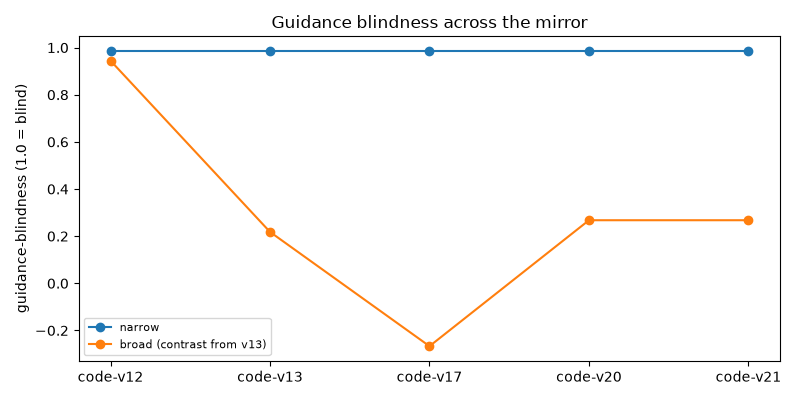
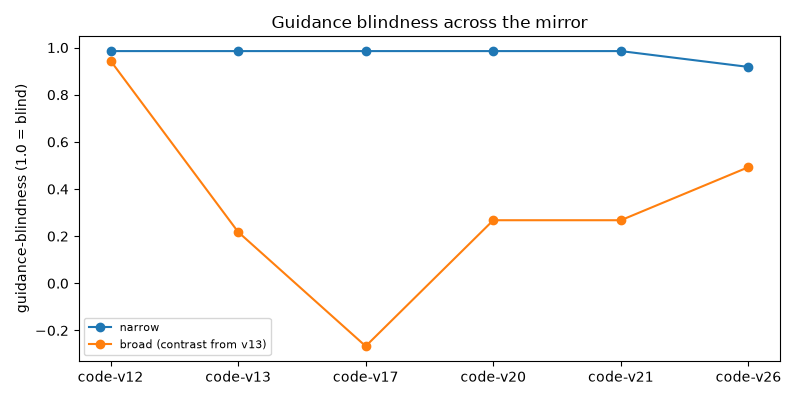
Adopt hidden-64 bench policies (#28)
Width ladder (same seeds/data/contrast/budgets): 16 -> 3/8
tried 4019 blind 0.24; 32 -> 3/8 tried 4043 blind 0.41; 64
-> 4/8 tried 3769 blind 0.53. Ladder repeated bitwise
identical. Adopt 64 for bench narrow/broad (fair pair);
HIDDEN default stays 16, all mechanism pins unchanged.
Measured adopted: twin/plain broad 4/8 (u_00,u_04,u_05,u_06;
p_01,p_04,p_05,p_06), narrow 2/8. Gains extended to
code-v26. test-fast 115/115 OK.

diff --git a/tests/test_rsi_ood.py b/tests/test_rsi_ood.py
@@ -8,6 +8,7 @@ import unittest
 from typing import Any
 
 from rsi_programmer.ood import CAVEAT, assert_frozen
+from rsi_programmer.ood import _probe_feats, _probe_layer
 from rsi_programmer.ood import _refine_rows, benchmark
 from rsi_programmer.ood import contrast_tensors
 from rsi_programmer.ood import guidance_similarity
@@ -233,6 +234,18 @@ class FrozenBenchmarkTests(unittest.TestCase):
         self.assertEqual(rep["caveat"], CAVEAT)
         print("refined: narrow=%.3f broad=%.3f"
               % (rep["narrow_solve"], rep["broad_solve"]))
+
+    def test_wider_net_trains_and_scores(self) -> None:
+        """Hidden-64 policy fits, scores finite, deterministic."""
+        first = SearchPolicy(seed=0, hidden=64)
+        first.fit(self.groups[:1], 2)
+        second = SearchPolicy(seed=0, hidden=64)
+        second.fit(self.groups[:1], 2)
+        feats = _probe_feats(self.twin[0], *_probe_layer())
+        both = [pol.scores(feats) for pol in (first, second)]
+        self.assertEqual(len(both[0]), len(feats))
+        self.assertEqual(both[0], both[1])
+        self.assertTrue(all(v == v for v in both[0]))
 
     def test_overfit_policy_blinder_to_mirror(self) -> None:
         """Narrow guidance barely notices the reversal."""

diff --git a/scripts/ood_bench.py b/scripts/ood_bench.py
@@ -40,16 +40,20 @@ def main() -> int:
     maker = SearchPolicy(seed=0)
     shadow = maker.trace_groups(SHADOW)
     extra = SearchPolicy(seed=0).trace_groups(TRAIN)
-    narrow = SearchPolicy(seed=0)
+    narrow = SearchPolicy(seed=0, hidden=64)
     narrow.fit(shadow[:2], EPOCHS)
-    broad = SearchPolicy(seed=0)
+    broad = SearchPolicy(seed=0, hidden=64)
     broad.fit(shadow + extra, EPOCHS, contrast=pairs)
     ref = benchmark(narrow, broad, twin_tasks, BUDGET,
                     name="ood-twin", order="score", widen=6,
                     refine=True)
+    print("twin broad solves: %s"
+          % [r["task"] for r in ref["per_task"] if r["broad"]])
     mir = benchmark(narrow, broad, plain_tasks, BUDGET,
                     name="ood-plain", order="score", widen=6,
                     refine=True)
+    print("plain broad solves: %s"
+          % [r["task"] for r in mir["per_task"] if r["broad"]])
     benchmark(narrow, broad, _load(FULL), BUDGET,
               name="ood-full", order="score", widen=6,
               refine=True)

diff --git a/tests/test_gains.py b/tests/test_gains.py
@@ -20,7 +20,7 @@ class GainsTests(unittest.TestCase):
             capture_output=True, text=True, timeout=120,
             cwd=str(ROOT))
         self.assertEqual(proc.returncode, 0, proc.stderr)
-        self.assertIn("gains rows=15", proc.stdout)
+        self.assertIn("gains rows=18", proc.stdout)
 
 
 if __name__ == "__main__":

diff --git a/scripts/plot_gains.py b/scripts/plot_gains.py
@@ -15,7 +15,7 @@ from pathlib import Path
 HERE = Path(__file__).resolve().parent.parent / "docs" / "gains"
 CSV = HERE / "gains.csv"
 RELEASES = ("code-v12", "code-v13", "code-v17", "code-v20",
-            "code-v21")
+            "code-v21", "code-v26")
 STRATA = ("twin", "plain", "full-ir")
 
 

diff --git a/README.md b/README.md
@@ -41,9 +41,9 @@ separate column, never the headline.
   agency profile converges as fitness spread collapses.
   See `rsi_programmer/autonomy.py`.
 - Structural OOD (expression-only, v2.4.0 §9.1: no gradient
-  placement): refined EXTRA weights, locked before the sweep —
-  narrow 2/8, broad holds 3/8 mirrored plain and twin
-  (blindness 0.985/0.27; refinement sees train rows only);
+  placement): hidden-64 bench policies — narrow 2/8, broad 4/8
+  mirrored plain and twin (blindness 0.92/0.49; wider nets are
+  less blind but the solve/blindness link is non-monotonic);
   evolved-policy scale accept still 0/8 with higher tried
   (width cannot fix bad ranking).
   Full-IR boundary: 2 solves a side via degenerate branches;
